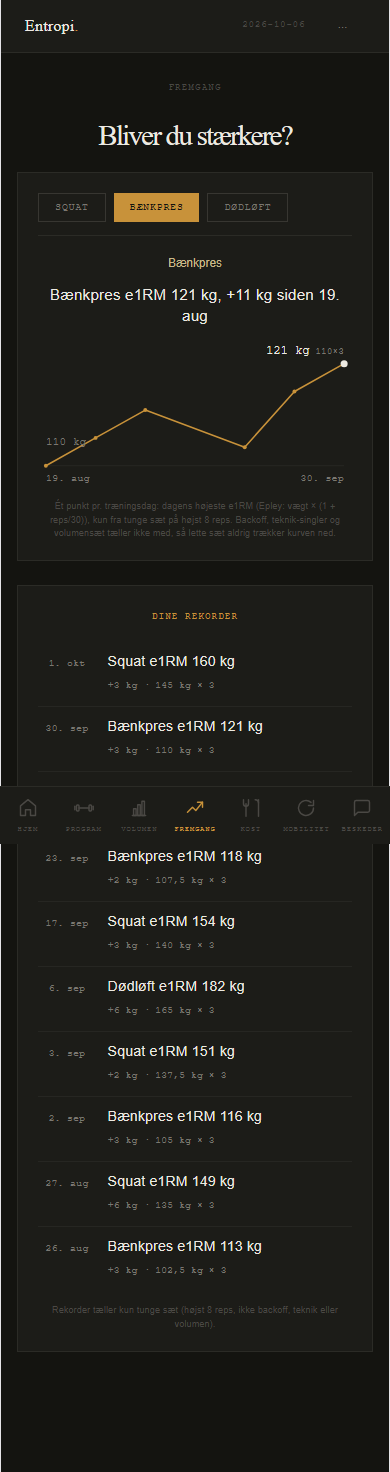
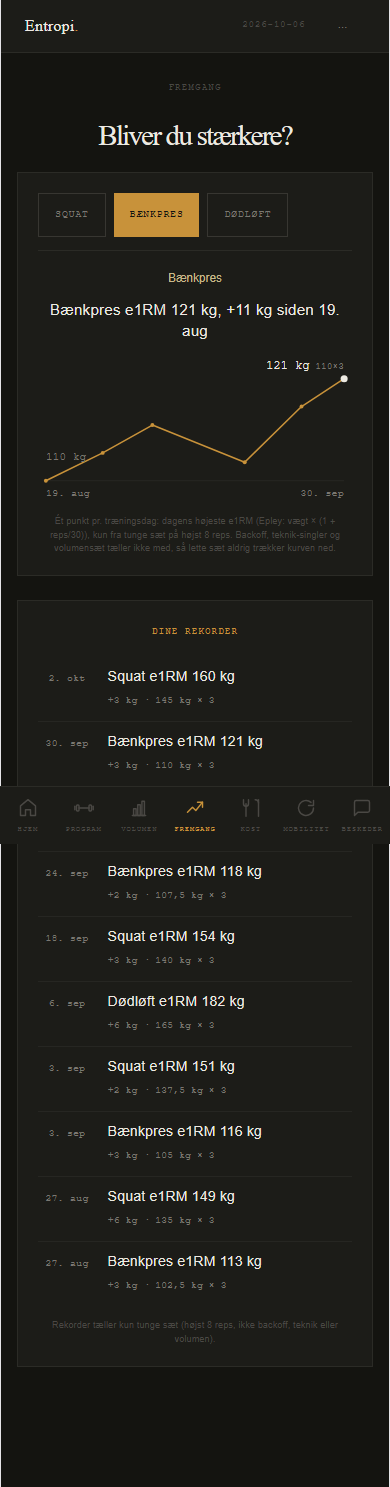
Ordre 1451 fase A: praecis fire hovedloeft i Fremgang, een tungt-saet-regel i rekorder, een taelling paa Dagens pas-kortet, SQL v3 spejler hovedloeft + tungt saet

diff --git a/src/athlete/FremgangTab.jsx b/src/athlete/FremgangTab.jsx
@@ -69,7 +69,7 @@ function fremgangLinje(navn, punkter) {
 // Ordre 422: etiketterne står inden for grafen (sidste punkts tal til
 // venstre for punktet, første punkts til højre) og er store nok til at læse
 // i 390 px; før stod de uden for højre kant med 7–8 px og blev skåret af.
-function FremgangGraf({ punkter }) {
+function FremgangGraf({ punkter, valgt, onVaelg }) {
   if (punkter.length < 2) return null
   const W = 400, H = 190, PL = 10, PR = 10, PT = 34, PB = 26
   const vals = punkter.map(p => p.e1rm)
@@ -94,8 +94,11 @@ function FremgangGraf({ punkter }) {
       <line x1={PL} y1={H - PB} x2={W - PR} y2={H - PB} stroke="rgba(237,234,226,0.08)" strokeWidth="1" />
       <polyline points={pts} fill="none" stroke="#c8923a" strokeWidth="2" strokeLinejoin="round" strokeLinecap="round" />
       {punkter.map((p, i) => (
-        <circle key={p.dag} cx={x(i)} cy={y(p.e1rm)} r={i === punkter.length - 1 ? 4.5 : 2.5}
-          fill={i === punkter.length - 1 ? '#edeae2' : '#c8923a'} />
+        <g key={p.dag} data-punkt={p.dag} onClick={() => onVaelg(i)} style={{ cursor: 'pointer' }}>
+          <circle cx={x(i)} cy={y(p.e1rm)} r="16" fill="transparent" />
+          <circle cx={x(i)} cy={y(p.e1rm)} r={i === valgt ? 5.5 : 2.5}
+            fill={i === valgt ? '#edeae2' : '#c8923a'} stroke={i === valgt ? '#c8923a' : 'none'} strokeWidth="2" />
+        </g>
       ))}
       <text x={x(0)} y={fy} textAnchor="start" fontSize="14" fill="#7a7770" fontFamily={mono}>
         {forste.e1rm} kg
@@ -117,6 +120,8 @@ function kortDato(iso) {
   return Number.isNaN(d.getTime()) ? '' : `${d.getDate()}. ${MDR[d.getMonth()]}`
 }
 const kgTal = (n) => String(n).replace('.', ',')
+// Sættypen er en egenskab ved sættet, ikke et nyt øvelsesnavn: "topsæt", "backoff" eller bare "sæt".
+const saetTypeOrd = (raaNavn) => { const l = exerciseSetView(raaNavn).label; return l === 'Top' ? 'topsæt' : l === 'Backoff' ? 'backoff' : 'sæt' }
 
 // Rekorderne (nyeste først) med dato. Samme regel som fejringen i Dagens pas
 // (rekorder.js); ugens sæt tages fra exerciseLogs, så et sæt logget uden net
@@ -184,6 +189,11 @@ export default function FremgangTab({ fremgangLogs, fremgangLoading, allWeeks, e
     return bestHeavySetPerDay(logsForOevelse)
   }, [fremgangLogs, oevelse])
 
+  // Ordre 1451: tryk på et punkt viser hvilket sæt det er (standard: det nyeste).
+  const [valgtPunkt, setValgtPunkt] = useState(null)
+  const valgtIdx = valgtPunkt && valgtPunkt.oevelse === oevelse && valgtPunkt.idx < punkter.length ? valgtPunkt.idx : punkter.length - 1
+  const valgtSaet = punkter[valgtIdx]
+
   const harLogs = useMemo(() => !!oevelse && (fremgangLogs || []).some(l => exerciseSetView(l.exercises?.name).key === exerciseSetView(oevelse).key), [fremgangLogs, oevelse])
 
   const rekorder = useMemo(() => {
@@ -216,29 +226,11 @@ export default function FremgangTab({ fremgangLogs, fremgangLoading, allWeeks, e
                 const aktiv = navnEnFamilie.includes(oevelse)
                 return (
                   <button key={familie.key} onClick={() => setValgtOevelse(hovednavn)} style={{ ...(aktiv ? s.btnPrimary : s.btnGhost), minHeight: '44px' }}>
-                    {navnEnFamilie.length === 1 ? hovednavn : familie.label}
+                    {familie.label}
                   </button>
                 )
               })}
             </div>
-
-            {HOVEDLOEFT_FAMILIER.map(familie => {
-              const navneIFamilie = grupper[familie.key]
-              if (navneIFamilie.length < 2 || !navneIFamilie.includes(oevelse)) return null
-              return (
-                <div key={familie.key} style={{ display: 'flex', gap: '0.4rem', marginBottom: '0.85rem', flexWrap: 'wrap' }}>
-                  {navneIFamilie.map(navn => (
-                    <button key={navn} onClick={() => setValgtOevelse(navn)}
-                      style={{
-                        ...s.btnGhost, padding: '0.3rem 0.6rem', fontSize: '0.54rem', minHeight: '44px',
-                        color: navn === oevelse ? '#c8923a' : '#7a7770',
-                        borderColor: navn === oevelse ? 'rgba(200,146,58,0.45)' : 'rgba(237,234,226,0.13)',
-                      }}
-                    >{navn}</button>
-                  ))}
-                </div>
-              )
-            })}
 
             {andreSorteret.length > 0 && (
               <div style={{ marginBottom: '1rem' }}>
@@ -263,7 +255,12 @@ export default function FremgangTab({ fremgangLogs, fremgangLoading, allWeeks, e
                   <div data-fremgang-linje style={{ fontSize: '0.95rem', color: '#edeae2', marginBottom: '0.7rem', lineHeight: 1.35 }}>
                     {fremgangLinje(oevelse, punkter)}
                   </div>
-                  <FremgangGraf punkter={punkter} />
+                  <FremgangGraf punkter={punkter} valgt={valgtIdx} onVaelg={idx => setValgtPunkt({ oevelse, idx })} />
+                  {valgtSaet && (
+                    <div data-punkt-forklaring style={{ fontFamily: mono, fontSize: '0.7rem', color: '#c8b98a', marginTop: '0.5rem', lineHeight: 1.5 }}>
+                      {kortDato(valgtSaet.dag)}: {kgTal(valgtSaet.weight)} kg × {valgtSaet.reps} ({saetTypeOrd(valgtSaet.navn)}) giver e1RM {valgtSaet.e1rm} kg. Tryk på et punkt for at se dets sæt.
+                    </div>
+                  )}
                   <div style={{ fontSize: '0.56rem', color: '#4a4844', marginTop: '0.85rem', lineHeight: 1.5 }}>
                     Ét punkt pr. træningsdag: dagens højeste e1RM (Epley: vægt × (1 + reps/30)), kun fra tunge sæt på højst 8 reps. Backoff, teknik-singler og volumensæt tæller ikke med, så lette sæt aldrig trækker kurven ned.
                   </div>

diff --git a/src/tungtSaetRegel.test.js b/src/tungtSaetRegel.test.js
@@ -1,0 +1,58 @@
+// Ordre 1451: EN regel for "tungt saet" og "hovedloeft". Klienten (erTungtSaet, mainLiftName)
+// er kilden; SQL-migrationen fra 1446 maa give samme svar for de samme navne. Regexene laeses
+// ud af migrationsfilen og koeres her (Postgres ARE og JS er ens for de konstruktioner der bruges).
+import { test } from 'node:test'
+import assert from 'node:assert/strict'
+import { readFileSync } from 'node:fs'
+import { erTungtSaet, MAX_TUNGE_REPS } from './exerciseProgress.js'
+import { mainLiftName } from './exerciseSetView.js'
+import { rekordListe, findRekord, bygGrundlag } from './athlete/rekorder.js'
+
+const sql = readFileSync(new URL('../supabase/migrations/20261006120000_training_signals_v3_tunge_saet.sql', import.meta.url), 'utf8')
+const SUF = sql.match(/SUF constant text := '(.+)';/)[1]
+const LET = new RegExp(sql.match(/nm !~ '([^']+)'/)[1].replace(/\\y/g, '\\b'))
+const maxReps = Number(sql.match(/reps between 1 and (\d+)/)[1])
+// CASE-grenene i migrationen: hver "when ... ~ ('<moenster>' [|| '<mere>'] || SUF || '$') then '<loeft>'".
+const caseBlok = sql.slice(sql.indexOf('case'+String.fromCharCode(10)+'        when lower(coalesce(ex.name'), sql.indexOf('end lift'))
+const loeftRegex = caseBlok.split(/\n\s*when /).slice(1).map(w => {
+  const lits = [...w.split(' then ')[0].matchAll(/'([^']*)'/g)].map(m => m[1])
+  assert.equal(lits.at(-1), '$')
+  return new RegExp(lits.slice(0, -1).join('') + SUF + '$')
+})
+assert.equal(loeftRegex.length, 3)
+
+const sqlTungt = (navn, reps) => reps >= 1 && reps <= maxReps && !LET.test(navn.toLowerCase())
+const sqlLoeft = (navn) => loeftRegex.some(r => r.test(navn.toLowerCase()))
+
+const NAVNE = ['Bænkpres', 'Baenkpres', 'Bænkpres topsæt', 'Bænkpres top set', 'Bænkpres - topsæt', 'Bænkpres - backoff', 'Bænkpres back-off',
+  'Bænkpres backoff', 'Bænkpres teknik single', 'baenk teknik single', 'Bænkpres teknik-singler', 'Bænkpres volumen', 'Bænkpres (comp)',
+  'Bænkpres primær', 'Bench', 'Bench press', 'Squat', 'Squat - topsæt', 'Squat Top Set', 'Squat backoff', 'Squat volumen', 'Squat comp',
+  'Dødløft', 'Dødløft topsæt', 'Dødløft - backoff', 'Sumo dødløft', 'Sumo dødløft topsæt', 'Dødløft (sumo)', 'Deadlift',
+  'Front squat', 'Frontsquat', 'Pause bænkpres', 'Close-grip bænkpres', 'Rumænsk dødløft', 'Goblet squat', 'RDL', 'Bænkpres sekundær']
+
+test('SQL og klient er enige om tungt saet for alle navne og rep-tal', () => {
+  assert.equal(maxReps, MAX_TUNGE_REPS)
+  for (const navn of NAVNE) for (const reps of [0, 1, 3, 5, 8, 9, 12]) {
+    assert.equal(sqlTungt(navn, reps), erTungtSaet(navn, reps), `${navn} x ${reps}`)
+  }
+})
+
+test('SQL og klient er enige om hvad et hovedloeft er (praecis fire, varianter er ikke)', () => {
+  for (const navn of NAVNE) assert.equal(sqlLoeft(navn), mainLiftName(navn) != null, navn)
+  for (const v of ['Front squat', 'Pause bænkpres', 'Close-grip bænkpres', 'Rumænsk dødløft', 'Goblet squat']) assert.equal(sqlLoeft(v), false, v)
+})
+
+test('rekorder bruger samme regel: lette saet og 9+ reps er aldrig rekord', () => {
+  const g = bygGrundlag([{ navn: 'Bænkpres topsæt', weight: 100, reps: 3 }])
+  // 85 x 12 backoff-volumen har e1RM 119 > 110, men er et let saet og taeller ikke.
+  assert.equal(findRekord(g, { navn: 'Bænkpres volumen', weight: 85, reps: 12 }), null)
+  assert.equal(findRekord(g, { navn: 'Bænkpres - backoff', weight: 95, reps: 8 }), null)
+  assert.equal(findRekord(g, { navn: 'Bænkpres', weight: 80, reps: 9 }), null)
+  assert.equal(findRekord(g, { navn: 'Bænkpres top set', weight: 105, reps: 3 })?.type, 'e1rm')
+  const liste = rekordListe([
+    { navn: 'Bænkpres topsæt', weight: 100, reps: 3, dato: '2026-09-01' },
+    { navn: 'Bænkpres volumen', weight: 90, reps: 12, dato: '2026-09-02' },
+    { navn: 'Bænkpres topsæt', weight: 105, reps: 3, dato: '2026-09-08' },
+  ])
+  assert.deepEqual(liste.map(r => r.dato), ['2026-09-08'])
+})

diff --git a/src/exerciseProgress.js b/src/exerciseProgress.js
@@ -26,8 +26,6 @@ export function estimatedOneRepMax(weight, reps) {
   return w * (1 + r / 30)
 }
 
-const NON_BARBELL = /belt|hack|split|bulgar|goblet|smith|pendul|maskine|machine|leg press|sissy|db |dumbbell|håndvægt/
-
 export const HOVEDLOEFT_FAMILIER = [
   { key: 'squat', label: 'Squat', color: '#4e8fcf', match: n => exerciseSetView(n).key === 'squat' },
   { key: 'baenk', label: 'Bænkpres', color: '#c8923a', match: n => exerciseSetView(n).key === 'baenkpres' },
@@ -36,27 +34,25 @@ export const HOVEDLOEFT_FAMILIER = [
 ]
 
 /**
- * Hvilken hovedløft-familie hører et øvelsesnavn til (kun til at organisere
- * øvelsesvælgeren) — null hvis navnet ikke matcher nogen af de tre.
+ * Hvilken hovedløft-familie et øvelsesnavn hører til: PRÆCIS de fire (Marcs dom
+ * 6. okt, V17: "Hovedløft er præcis fire: squat, bænkpres, konventionel
+ * dødløft og sumo dødløft. Alt andet (front squat, pause, close-grip, goblet,
+ * RDL osv.) er varianter/assistance"). Sættype-suffikser og stavemåder
+ * ("Bænkpres top set", "baenk teknik single", "Bench") foldes til samme løft.
+ * Varianter giver null og havner under "Andre øvelser".
  */
 export function hovedloeftFamilie(navn) {
-  const n = exerciseSetView(navn).name.toLowerCase()
-  if (NON_BARBELL.test(n)) return null
-  if (HOVEDLOEFT_FAMILIER[3].match(n)) return 'sumo'
-  if (n.includes('squat')) return 'squat'
-  if (n.includes('bænk') || n.includes('bench')) return 'baenk'
-  if (n.includes('dødløft') || n.includes('deadlift') || /(^|\s)dl(\s|$)/.test(n)) return 'doedloeft'
-  return null
+  return HOVEDLOEFT_FAMILIER.find(f => f.match(navn))?.key ?? null
 }
 
 /**
  * Grupperer en liste af ØVELSESNAVNE (typisk alle distinkte navne atleten
- * har logget) til øvelsesvælgeren: de tre hovedløft-familier (hver med sine
- * matchende navne, inkl. varianter som "Frontsquat"), og "andre" — resten,
+ * har logget) til øvelsesvælgeren: de fire hovedløft (ét navn hver) og
+ * "andre" (varianter og assistance) — resten,
  * i den rækkefølge de kom ind (kaldestedet sorterer selv om nødvendigt).
  *
  * @param {string[]} navne
- * @returns {{ squat: string[], baenk: string[], doedloeft: string[], andre: string[] }}
+ * @returns {{ squat: string[], baenk: string[], doedloeft: string[], sumo: string[], andre: string[] }}
  */
 export function grupperOevelsesnavne(navne) {
   const grupper = { squat: [], baenk: [], doedloeft: [], sumo: [], andre: [] }
@@ -145,7 +141,7 @@ export function bestHeavySetPerDay(logs) {
     if (!dag) continue
     const val = estimatedOneRepMax(weight, reps)
     const cur = best.get(dag)
-    if (!cur || val > cur.val || (val === cur.val && weight > cur.weight)) best.set(dag, { dag, weight, reps, val })
+    if (!cur || val > cur.val || (val === cur.val && weight > cur.weight)) best.set(dag, { dag, weight, reps, val, navn: log.exercises?.name ?? log.navn })
   }
   return [...best.values()].sort((a, b) => a.dag.localeCompare(b.dag))
     .map(({ val, ...p }) => ({ ...p, e1rm: Math.round(val) }))

diff --git a/src/athlete/DagensPasCard.jsx b/src/athlete/DagensPasCard.jsx
@@ -260,6 +260,9 @@ function DagensPasCard({ pas, exerciseHistory, exerciseLogs, logInputs, setLogIn
   // ORDRE 314 · blok 1 — sæt 1..setNumber-1 på DENNE øvelse er altid logget
   // (nextSetInSession finder det første ULOGGEDE sæt i rækkefølge, så der kan
   // ikke være huller foran "next"). Vises som kompakte linjer, ikke fulde felter.
+  // Ordre 1451: én tælling pr. kort. Er øvelsen delt i flere rækker (top + backoff), står
+  // antallet kun i "Sæt 1/4" øverst; rækken viser reps og intensitet, ikke sin egen "2 sæt".
+  const flereRaekker = (viewRow?.totalSets || 0) > (Number(ex.sets) || 0)
   const priorSetNumbers = Array.from({ length: setNumber - 1 }, (_, i) => i + 1)
   const nextSetNumber = setNumber + 1
   // ORDRE 339 · blok 1 (F3) — klarede sæt foldet ud (tryk, eller et sæt står
@@ -275,7 +278,7 @@ function DagensPasCard({ pas, exerciseHistory, exerciseLogs, logInputs, setLogIn
       {rateLine}
       <div style={{ display: 'flex', alignItems: 'baseline', justifyContent: 'space-between', gap: '0.5rem', marginBottom: '0.5rem' }}>
         <div style={s.cardLabel}>Dagens pas</div>
-        <div style={{ fontFamily: "'IBM Plex Mono', monospace", fontSize: '0.54rem', letterSpacing: '0.06em', color: '#7a7770' }}>{view.label !== 'Sæt' && `${view.label} ${setNumber} · `}Sæt {(viewRow?.offset || 0) + setNumber}/{viewRow?.totalSets || totalSets}</div>
+        <div style={{ fontFamily: "'IBM Plex Mono', monospace", fontSize: '0.54rem', letterSpacing: '0.06em', color: '#7a7770' }}>Sæt {(viewRow?.offset || 0) + setNumber}/{viewRow?.totalSets || totalSets}{view.label !== 'Sæt' && ` · ${view.label}`}</div>
       </div>
 
       <div style={{ fontFamily: "'Playfair Display', serif", fontSize: '1.7rem', fontWeight: 400, color: '#edeae2', lineHeight: 1.15, marginBottom: '0.25rem' }}>
@@ -294,7 +297,7 @@ function DagensPasCard({ pas, exerciseHistory, exerciseLogs, logInputs, setLogIn
         </div>
       ) : null}
       <div style={{ fontFamily: "'IBM Plex Mono', monospace", fontSize: '0.85rem', color: '#c8923a', textTransform: 'uppercase', letterSpacing: '0.06em', marginBottom: '0.85rem' }}>
-        {[ex.sets && `${ex.sets} sæt`, ex.reps && `× ${ex.reps}${/^[\d\s\-–]+$/.test(String(ex.reps)) ? ' reps' : ''}`, ex.intensity && ex.intensity].filter(Boolean).join(' · ')}
+        {[ex.sets && !flereRaekker && `${ex.sets} sæt`, ex.reps && `× ${ex.reps}${/^[\d\s\-–]+$/.test(String(ex.reps)) ? ' reps' : ''}`, ex.intensity && ex.intensity].filter(Boolean).join(' · ')}
       </div>
 
       {/* ORDRE 314 · blok 1, rettet i ORDRE 320 · blok 1 — klarede sæt på DENNE

diff --git a/src/exerciseProgress.test.js b/src/exerciseProgress.test.js
@@ -11,11 +11,15 @@ test('estimatedOneRepMax bruger Epley (vægt × (1 + reps/30))', () => {
 test('hovedloeftFamilie genkender Squat/Bænk/Dødløft, stavemåde- og store/små bogstaver-uafhængigt', () => {
   assert.equal(hovedloeftFamilie('Squat'), 'squat')
   assert.equal(hovedloeftFamilie('squat'), 'squat')
-  assert.equal(hovedloeftFamilie('Frontsquat'), 'squat')
+  assert.equal(hovedloeftFamilie('Frontsquat'), null) // variant, ikke hovedløft (Marcs dom 6. okt V17)
+  assert.equal(hovedloeftFamilie('Bænkpres top set'), 'baenk')
+  assert.equal(hovedloeftFamilie('baenk teknik single'), 'baenk')
+  assert.equal(hovedloeftFamilie('Bench'), 'baenk')
+  assert.equal(hovedloeftFamilie('Sumo dødløft'), 'sumo')
   assert.equal(hovedloeftFamilie('Bænkpres'), 'baenk')
   assert.equal(hovedloeftFamilie('Bench press'), 'baenk')
   assert.equal(hovedloeftFamilie('Dødløft'), 'doedloeft')
-  assert.equal(hovedloeftFamilie('Rumænsk dødløft'), 'doedloeft')
+  assert.equal(hovedloeftFamilie('Rumænsk dødløft'), null)
   assert.equal(hovedloeftFamilie('Deadlift'), 'doedloeft')
 })
 
@@ -31,13 +35,13 @@ test('hovedloeftFamilie giver null for øvelser der ikke er et hovedløft', () =
   assert.equal(hovedloeftFamilie(undefined), null)
 })
 
-test('grupperOevelsesnavne sorterer i de tre familier + andre', () => {
+test('grupperOevelsesnavne: de fire hovedløft + andre (varianter og assistance)', () => {
   const navne = ['Squat', 'Frontsquat', 'Bænkpres', 'Dødløft', 'Bicep curl', 'Leg press']
   const grupper = grupperOevelsesnavne(navne)
-  assert.deepEqual(grupper.squat, ['Squat', 'Frontsquat'])
+  assert.deepEqual(grupper.squat, ['Squat'])
   assert.deepEqual(grupper.baenk, ['Bænkpres'])
   assert.deepEqual(grupper.doedloeft, ['Dødløft'])
-  assert.deepEqual(grupper.andre, ['Bicep curl', 'Leg press'])
+  assert.deepEqual(grupper.andre, ['Frontsquat', 'Bicep curl', 'Leg press'])
 })
 
 test('heaviestSetPerWeek vælger det tungeste sæt pr. kalenderuge, ældste først', () => {

diff --git a/src/athlete/rekorder.js b/src/athlete/rekorder.js
@@ -2,13 +2,17 @@
 // (exercise_logs: Fremgangs historik + ugens sæt). Intet nyt i databasen.
 // Rene funktioner, samme mønster som ugeStatus.js, så de testes uden browser.
 //
+// Ordre 1451: kun TUNGE sæt kan sætte eller slå en rekord (erTungtSaet, samme
+// regel som Fremgang-kurven, forsidens styrkelinje og coachens visning): højst
+// 8 reps, ikke backoff/volumen/teknik-single. Navnet skal være det RÅ navn.
+//
 // En rekord er et gennemført sæt (vægt > 0, reps > 0, ikke sprunget over), der
 // enten giver øvelsens højeste e1RM (Epley, afrundet til hele kg, så "+0 kg"
 // aldrig fejres), eller flest reps på en vægt, der er løftet før. Øvelsens
 // allerførste sæt er ingen rekord: der er intet at slå. Et fortrudt sæt er
 // væk fra loggen og tæller derfor heller ikke.
 import { exerciseSetView } from '../exerciseSetView.js'
-import { estimatedOneRepMax } from '../exerciseProgress.js'
+import { estimatedOneRepMax, erTungtSaet } from '../exerciseProgress.js'
 
 export const e1rmKg = (weight, reps) => Math.round(estimatedOneRepMax(weight, reps))
 
@@ -16,7 +20,7 @@ const noegle = (navn) => exerciseSetView(navn).key
 const vaegtNoegle = (weight) => String(Number(weight))
 
 export function gyldigtSaet(saet) {
-  return !!saet && !saet.skipped && Number(saet.weight) > 0 && Number(saet.reps) > 0 && !!noegle(saet.navn)
+  return !!saet && !saet.skipped && Number(saet.weight) > 0 && Number(saet.reps) > 0 && !!noegle(saet.navn) && erTungtSaet(saet.navn, saet.reps)
 }
 
 // Grundlaget er kun maksima (bedste e1RM og flest reps pr. vægt pr. øvelse),

diff --git a/src/athlete/rekordIndeks.test.js b/src/athlete/rekordIndeks.test.js
@@ -87,7 +87,7 @@ test('rekordListe med indeksets grundlag = 439 over hele historikken (ugens reko
   const logs = [
     { exercise_id: 'ex3', set_number: 1, weight: 100, reps_completed: 5, skipped: false, logged_at: '2026-09-15T10:00:00Z' },
     { exercise_id: 'ex3', set_number: 2, weight: 100, reps_completed: 5, skipped: false, logged_at: '2026-09-15T10:03:00Z' },
-    { exercise_id: 'ex3', set_number: 3, weight: 90, reps_completed: 9, skipped: false, logged_at: '2026-09-15T10:06:00Z' },
+    { exercise_id: 'ex3', set_number: 3, weight: 95, reps_completed: 8, skipped: false, logged_at: '2026-09-15T10:06:00Z' },
   ]
   const ix = laegRaekkerTil(tomtIndeks('a1'), historik, allWeeks, u3)
   const nye = rekordListe(ugensSaet(logs, u3, allWeeks), grundlagFoer(ix, u3)).filter(r => r.denneUge)

diff --git a/src/fremgangKurve.test.js b/src/fremgangKurve.test.js
@@ -81,7 +81,7 @@ test('kurven er hoejeste e1RM pr. dag fra tunge saet og falder ikke af lette sae
   assert.deepEqual(k.map(p => p.dag), ['2026-08-31', '2026-09-07', '2026-09-21', '2026-09-28', '2026-10-05'])
   assert.deepEqual(k.map(p => p.e1rm), [110, 113, 112, 119, 118])
   // Hvert tal kan forklares: dagens tungeste e1RM blandt saet <= 8 reps der ikke er lette.
-  assert.deepEqual(k[0], { dag: '2026-08-31', weight: 100, reps: 3, e1rm: 110 })
+  assert.deepEqual(k[0], { dag: '2026-08-31', weight: 100, reps: 3, navn: 'Bænkpres topsæt', e1rm: 110 })
   assert.equal(k[2].weight, 105) // comp 105x2 vinder, ikke backoff 85x6
 })
 
